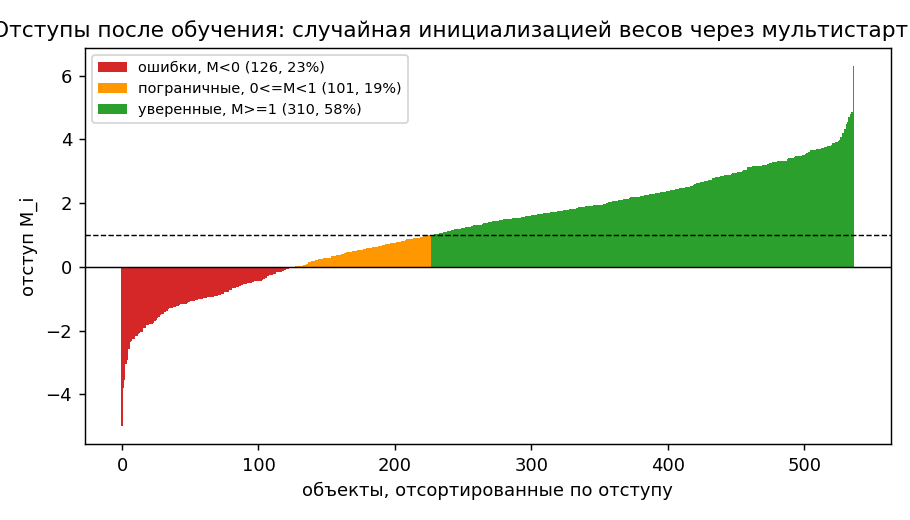
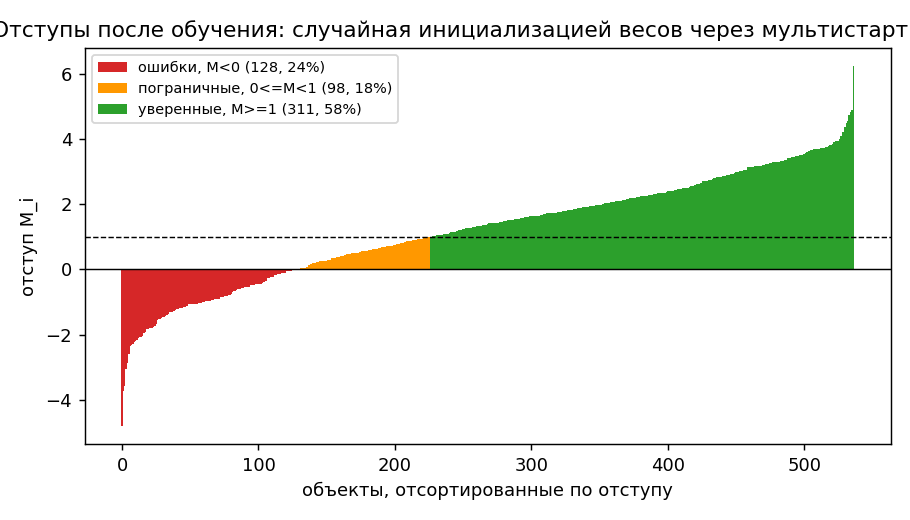
1. Предобработка после разбиения, предъявление по модулю отступа, оптимальный шаг

diff --git a/students/churyumov-bv/lab1/source/main.py b/students/churyumov-bv/lab1/source/main.py
@@ -38,22 +38,27 @@ def load_data() -> pd.DataFrame:
 
 
 def prepare_data(df: pd.DataFrame, test_size: float = 0.3):
-    df = df.copy()
     zeros = ["plas", "pres", "skin", "insu", "mass"]
-    for col in zeros:
-        df[col] = df[col].replace(0, np.nan)
-        df[col] = df[col].fillna(df[col].median())
-
     feature_cols = ["preg", "plas", "pres", "skin", "insu", "mass", "pedi", "age"]
-    X = df[feature_cols].to_numpy(dtype=float)
-    y = np.where(df["class"] == "tested_positive", 1.0, -1.0)
 
-    mu, sigma = X.mean(axis=0), X.std(axis=0)
+    df_train, df_test = train_test_split(df, test_size=test_size, shuffle=False)
+    df_train, df_test = df_train.copy(), df_test.copy()
+    for col in zeros:
+        df_train[col] = df_train[col].replace(0, np.nan)
+        df_test[col] = df_test[col].replace(0, np.nan)
+        median = df_train[col].median()
+        df_train[col] = df_train[col].fillna(median)
+        df_test[col] = df_test[col].fillna(median)
+
+    X_train = df_train[feature_cols].to_numpy(dtype=float)
+    X_test = df_test[feature_cols].to_numpy(dtype=float)
+    y_train = np.where(df_train["class"] == "tested_positive", 1.0, -1.0)
+    y_test = np.where(df_test["class"] == "tested_positive", 1.0, -1.0)
+
+    mu, sigma = X_train.mean(axis=0), X_train.std(axis=0)
     sigma[sigma == 0] = 1.0
-    X = (X - mu) / sigma
-    X_train, X_test, y_train, y_test = train_test_split(
-        X, y, test_size=test_size, shuffle=False
-    )
+    X_train = (X_train - mu) / sigma
+    X_test = (X_test - mu) / sigma
 
     def add_bias(X):
         return np.hstack([np.ones((X.shape[0], 1)), X])
@@ -145,9 +150,9 @@ def full_Q(w, X, y, l2):
 
 # 8. реализовать предъявление объектов мо модулю отступа;
 def margin_based_sampling_probs(w: np.ndarray, X: np.ndarray, y: np.ndarray,
-                                 eps: float = 1e-3) -> np.ndarray:
-    M = margin(w, X, y)
-    weights = loss(M) + eps
+                                 tau: float = 1.0) -> np.ndarray:
+    M = np.abs(margin(w, X, y))
+    weights = np.exp(-M / tau)
     return weights / weights.sum()
 
 def sgd_momentum(X, y, w0, n_iter=4000, eta=0.05, gamma=0.9, l2=0.01,
@@ -181,29 +186,40 @@ def sgd_momentum(X, y, w0, n_iter=4000, eta=0.05, gamma=0.9, l2=0.01,
     return w, np.array(Q_history)
 
 # 7. реализовать скорейший градиентный спуск;
-def backtracking_line_search(f, f0, g, eta0=5.0, shrink=0.5, c1=1e-4, max_steps=50):
-    eta = eta0
-    grad_norm_sq = g @ g
-    for _ in range(max_steps):
-        if f(eta) <= f0 - c1 * eta * grad_norm_sq:
-            return eta
-        eta *= shrink
-    return eta
+def quadratic_loss(M: np.ndarray) -> np.ndarray:
+    return (1.0 - M) ** 2
+
+
+def quadratic_Q(w: np.ndarray, X: np.ndarray, y: np.ndarray, l2: float) -> float:
+    return float(quadratic_loss(margin(w, X, y)).mean() + 0.5 * l2 * np.sum(w[1:] ** 2))
+
+
+def quadratic_gradient(w: np.ndarray, X: np.ndarray, y: np.ndarray, l2: float) -> np.ndarray:
+    # dL/dw = -2 (1 - M) y x, усреднение по выборке, L2 без свободного члена
+    r = 1.0 - margin(w, X, y)
+    g = -2.0 * (X.T @ (y * r)) / len(y)
+    g[1:] += l2 * w[1:]
+    return g
+
+
+def optimal_step(X: np.ndarray, g: np.ndarray, l2: float) -> float:
+    # Q квадратична по w, поэтому h* = argmin_h Q(w - h g) находится точно:
+    # h* = |g|^2 / (g^T H g), H = (2/n) X^T X + l2 I (без свободного члена)
+    Xg = X @ g
+    den = 2.0 * float(Xg @ Xg) / len(Xg) + l2 * float(g[1:] @ g[1:])
+    return float(g @ g) / den if den > 1e-18 else 0.0
+
 
 # 7. реализовать скорейший градиентный спуск;
-def steepest_descent(X, y, w0, n_iter=200, l2=0.01, eta_max=5.0):
+def steepest_descent(X, y, w0, n_iter=500, l2=0.01):
     w = w0.copy()
-    Q_history = [full_Q(w, X, y, l2)]
+    Q_history = [quadratic_Q(w, X, y, l2)]
     for t in range(n_iter):
-        g = gradient(w, X, y, l2=l2)
+        g = quadratic_gradient(w, X, y, l2)
         if np.linalg.norm(g) < 1e-8:
             break
-        Q_w = Q_history[-1]
-        eta_star = backtracking_line_search(
-            lambda eta: full_Q(w - eta * g, X, y, l2), Q_w, g, eta0=eta_max
-        )
-        w = w - eta_star * g
-        Q_history.append(full_Q(w, X, y, l2))
+        w = w - optimal_step(X, g, l2) * g
+        Q_history.append(quadratic_Q(w, X, y, l2))
     return w, np.array(Q_history)
 
 
@@ -355,7 +371,7 @@ if __name__ == "__main__":
     plt.figure(figsize=(7, 4))
     plt.plot(hist_corr, label="инициализация весов через корреляцию")
     plt.plot(hist_mb, label="со случайным предъявлением и с п.8")
-    plt.plot(hist_steep, label="метод наискорейшего спуска")
+    plt.plot(hist_steep, label="метод наискорейшего спуска (квадратичная потеря)")
     plt.xlabel("Итерация")
     plt.ylabel("Оценка качества")
     plt.title("Кривые обучения")
